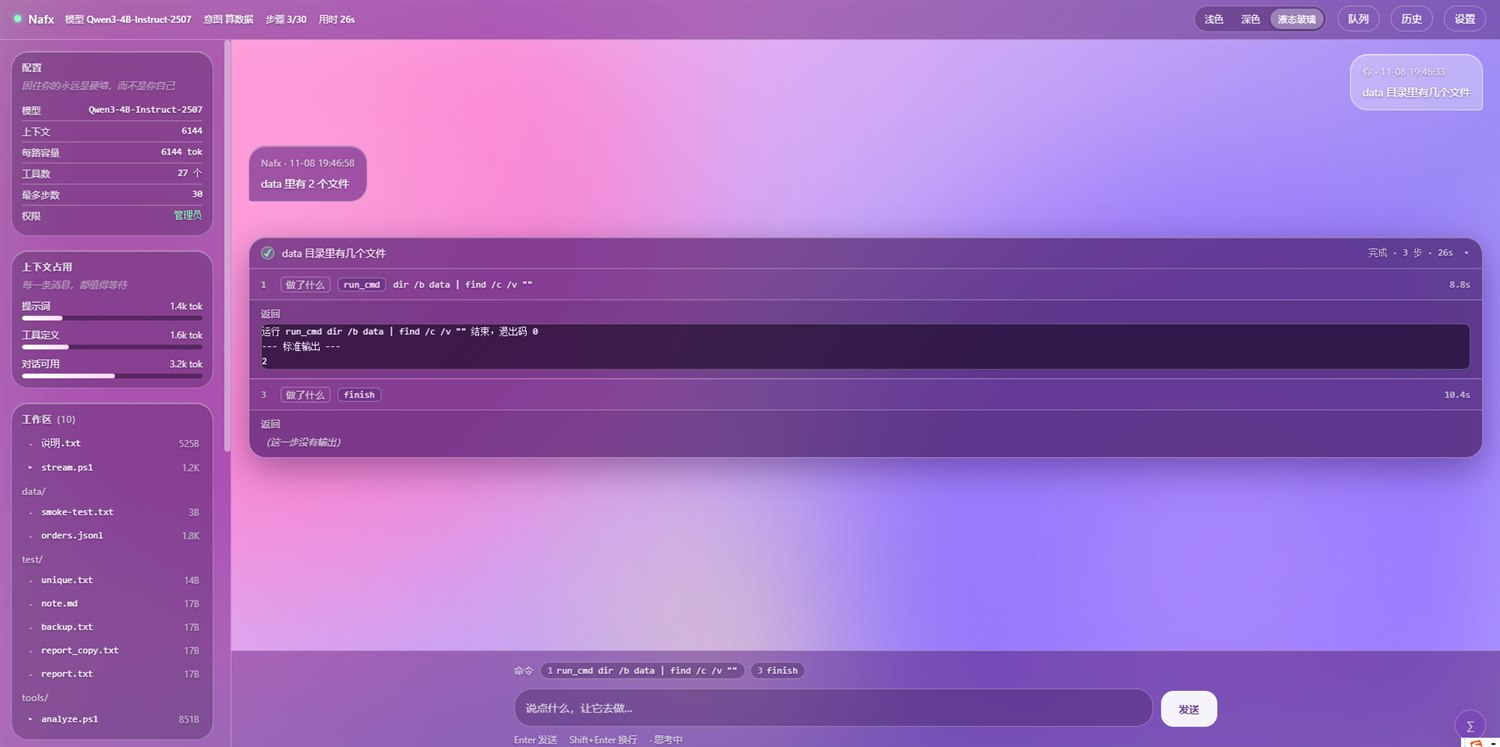
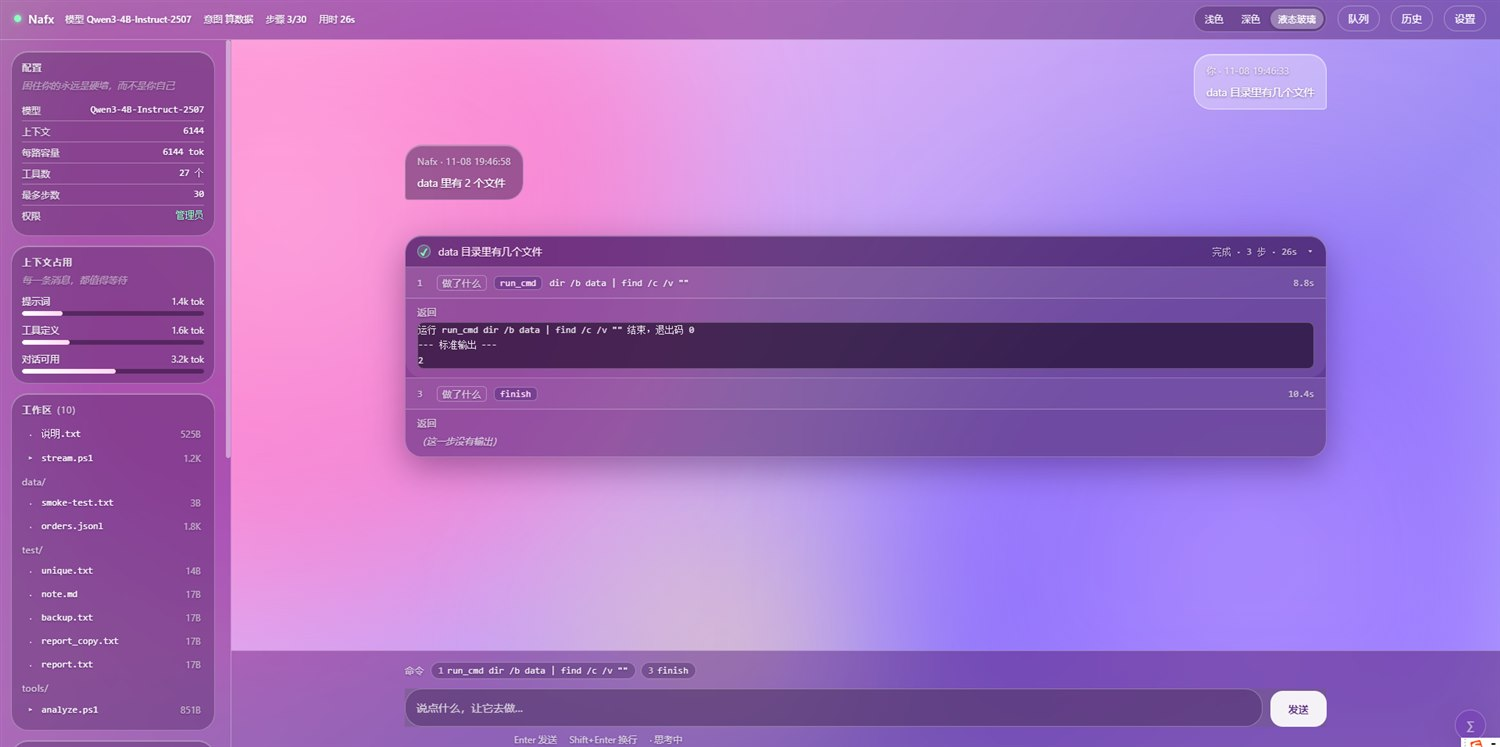
UI：对话区限宽居中、玻璃主题背景调柔、滚动条细化、消息淡入；更新截图

diff --git a/agent/dashboard.html b/agent/dashboard.html
@@ -651,6 +651,91 @@ textarea::placeholder{color:var(--faint)}
 .step-obs.bad{color:var(--err)}
 .step-obs-wrap.bad{background:var(--err-bg)}
 .step-empty{font-size:11.5px;color:var(--faint);font-style:italic}
+
+/* 任务结束后折叠的步骤记录 */
+.live-box.done{margin-top:14px}
+.live-head.foldable{cursor:pointer;user-select:none}
+.live-head.foldable:hover .tt{color:var(--accent)}
+.fin-mark{
+  width:17px;height:17px;border-radius:50%;flex-shrink:0;
+  display:flex;align-items:center;justify-content:center;
+  font-size:11px;font-weight:700;
+}
+.fin-mark.ok{background:var(--ok-bg);color:var(--ok);border:1px solid var(--ok-bd)}
+.fin-mark.bad{background:var(--err-bg);color:var(--err);border:1px solid var(--err-bd)}
+.fold-arrow{font-size:10px;color:var(--faint);flex-shrink:0;margin-left:2px}
+
+/* ========== UI 优化 ========== */
+
+/* 1) 对话区限宽居中：超宽屏不拉散 */
+.thread{
+  padding-left: max(22px, calc((100% - 1180px) / 2));
+  padding-right: max(22px, calc((100% - 1180px) / 2));
+}
+/* 输入区也一起对齐 */
+.composer-inner, .cmdbar, .answer-box{
+  max-width:1180px;
+}
+
+/* 2) 玻璃主题下「返回」那块别用深黑，太跳 */
+[data-theme="glass"] .step-obs-wrap{
+  background:rgba(255,255,255,.07);
+}
+[data-theme="glass"] .step-obs{
+  color:rgba(255,255,255,.88);
+}
+[data-theme="glass"] .step-act{
+  background:rgba(255,255,255,.10);
+}
+[data-theme="glass"] .live-box{
+  background:rgba(48,18,72,.55);
+}
+
+/* 3) 消息气泡：稍微收窄，更像聊天 */
+.msg .wrap{max-width:74%}
+.msg .bubble{
+  line-height:1.65;
+  box-shadow:var(--shadow-sm);
+}
+[data-theme="glass"] .msg .bubble{
+  backdrop-filter:blur(10px);
+  -webkit-backdrop-filter:blur(10px);
+}
+
+/* 4) 消息淡入 */
+@keyframes msgIn{from{opacity:0;transform:translateY(6px)}to{opacity:1;transform:none}}
+.msg{animation:msgIn .22s ease-out}
+
+/* 5) 滚动条统一细一点 */
+.side::-webkit-scrollbar{width:6px}
+.thread::-webkit-scrollbar{width:7px}
+.side::-webkit-scrollbar-thumb,.thread::-webkit-scrollbar-thumb{
+  background:var(--line2);border-radius:6px;
+}
+.side::-webkit-scrollbar-thumb:hover,.thread::-webkit-scrollbar-thumb:hover{
+  background:var(--faint);
+}
+/* 隐藏滚动条两头的小箭头 */
+.side::-webkit-scrollbar-button,.thread::-webkit-scrollbar-button{display:none}
+
+/* 6) 步骤框：圆角统一、悬停微亮 */
+.step-obs-wrap{border-bottom-left-radius:var(--radius-lg);border-bottom-right-radius:var(--radius-lg)}
+.step:last-child .step-obs-wrap{border-bottom-left-radius:var(--radius-lg);border-bottom-right-radius:var(--radius-lg)}
+.step-act:hover{background:var(--panel3)}
+
+/* 7) 折叠条悬停更明显 */
+.live-head.foldable{transition:.15s}
+.live-head.foldable:hover{background:var(--panel2)}
+
+/* 8) 左侧栏卡片间距收紧一点 */
+.side{gap:12px}
+
+/* 9) 玻璃主题下输入框更通透 */
+[data-theme="glass"] .composer-inner{
+  background:rgba(255,255,255,.14);
+  backdrop-filter:blur(16px);
+  -webkit-backdrop-filter:blur(16px);
+}
 </style>
 </head>
 <body>
@@ -1129,17 +1214,50 @@ function stepHtml(s){
 }
 
 function liveBox(st){
-  if (!st || !st.task || st.status !== 'running') return '';
+  if (!st || !st.task) return '';
+  var active = (st.status === 'running');
+  var fin = (st.status === 'done' || st.status === 'error' ||
+             st.status === 'timeout' || st.status === 'stuck');
+  if (!active && !fin) return '';
+
   var steps = st.steps || [], sh = '';
   for (var j=0;j<steps.length;j++) sh += stepHtml(steps[j]);
+
+  var icon = active
+    ? '<span class="spinner"></span>'
+    : '<span class="fin-mark ' + (st.status==='done'?'ok':'bad') + '">' +
+      (st.status==='done' ? '✓' : '×') + '</span>';
+
+  var body = (st.plan ? '<div class="sect">' + planHtml(st.plan) + '</div>' : '') +
+             (sh ? '<div class="steps">' + sh + '</div>' : '');
+
+  if (!active){
+    return '<div class="live-box done">' +
+      '<div class="live-head foldable" onclick="toggleLive(this)">' + icon +
+      '<span class="tt">' + esc(st.task) + '</span>' +
+      '<span class="step-sec">' + (STATUS_TEXT[st.status]||st.status) + ' · ' +
+      (st.step||0) + ' 步 · ' + fmtTime(st.elapsed) + '</span>' +
+      '<span class="fold-arrow">▸</span></div>' +
+      '<div class="live-body" style="display:none">' + body + '</div></div>';
+  }
+
   return '<div class="live-box">' +
-    '<div class="live-head"><span class="spinner"></span>' +
+    '<div class="live-head">' + icon +
     '<span class="tt">' + esc(st.task) + '</span>' +
     '<span class="step-sec">' + esc(st.phase||'') + ' · ' + (st.step||0) + '/' + (st.maxSteps||0) +
     ' · ' + fmtTime(st.elapsed) + '</span></div>' +
-    (st.plan ? '<div class="sect">' + planHtml(st.plan) + '</div>' : '') +
-    (sh ? '<div class="steps">' + sh + '</div>' : '') +
+    body +
     '</div>';
+}
+
+function toggleLive(el){
+  var box = el.parentNode;
+  var body = box.querySelector('.live-body');
+  var arrow = el.querySelector('.fold-arrow');
+  if (!body) return;
+  var open = body.style.display !== 'none';
+  body.style.display = open ? 'none' : '';
+  if (arrow) arrow.textContent = open ? '▸' : '▾';
 }
 
 
@@ -1305,7 +1423,7 @@ function renderFlow(sess, st){
 
   curSession = sess || [];
   var arr = curSession;
-  var running = (st && st.status === 'running' && st.task);
+  var running = (st && st.task && (st.status === 'running' || st.status === 'done' || st.status === 'error' || st.status === 'timeout' || st.status === 'stuck'));
   var sig = arr.length + '|' + (st ? (st.intent||'') + '|' + (st.status||'') : '') + '|' + (running ? (st.task + '|' + st.step + '|' + st.elapsed + '|' + st.phase + '|' + (st.steps||[]).length) : 'idle');
   if (sig === lastSig) return;
   lastSig = sig;
